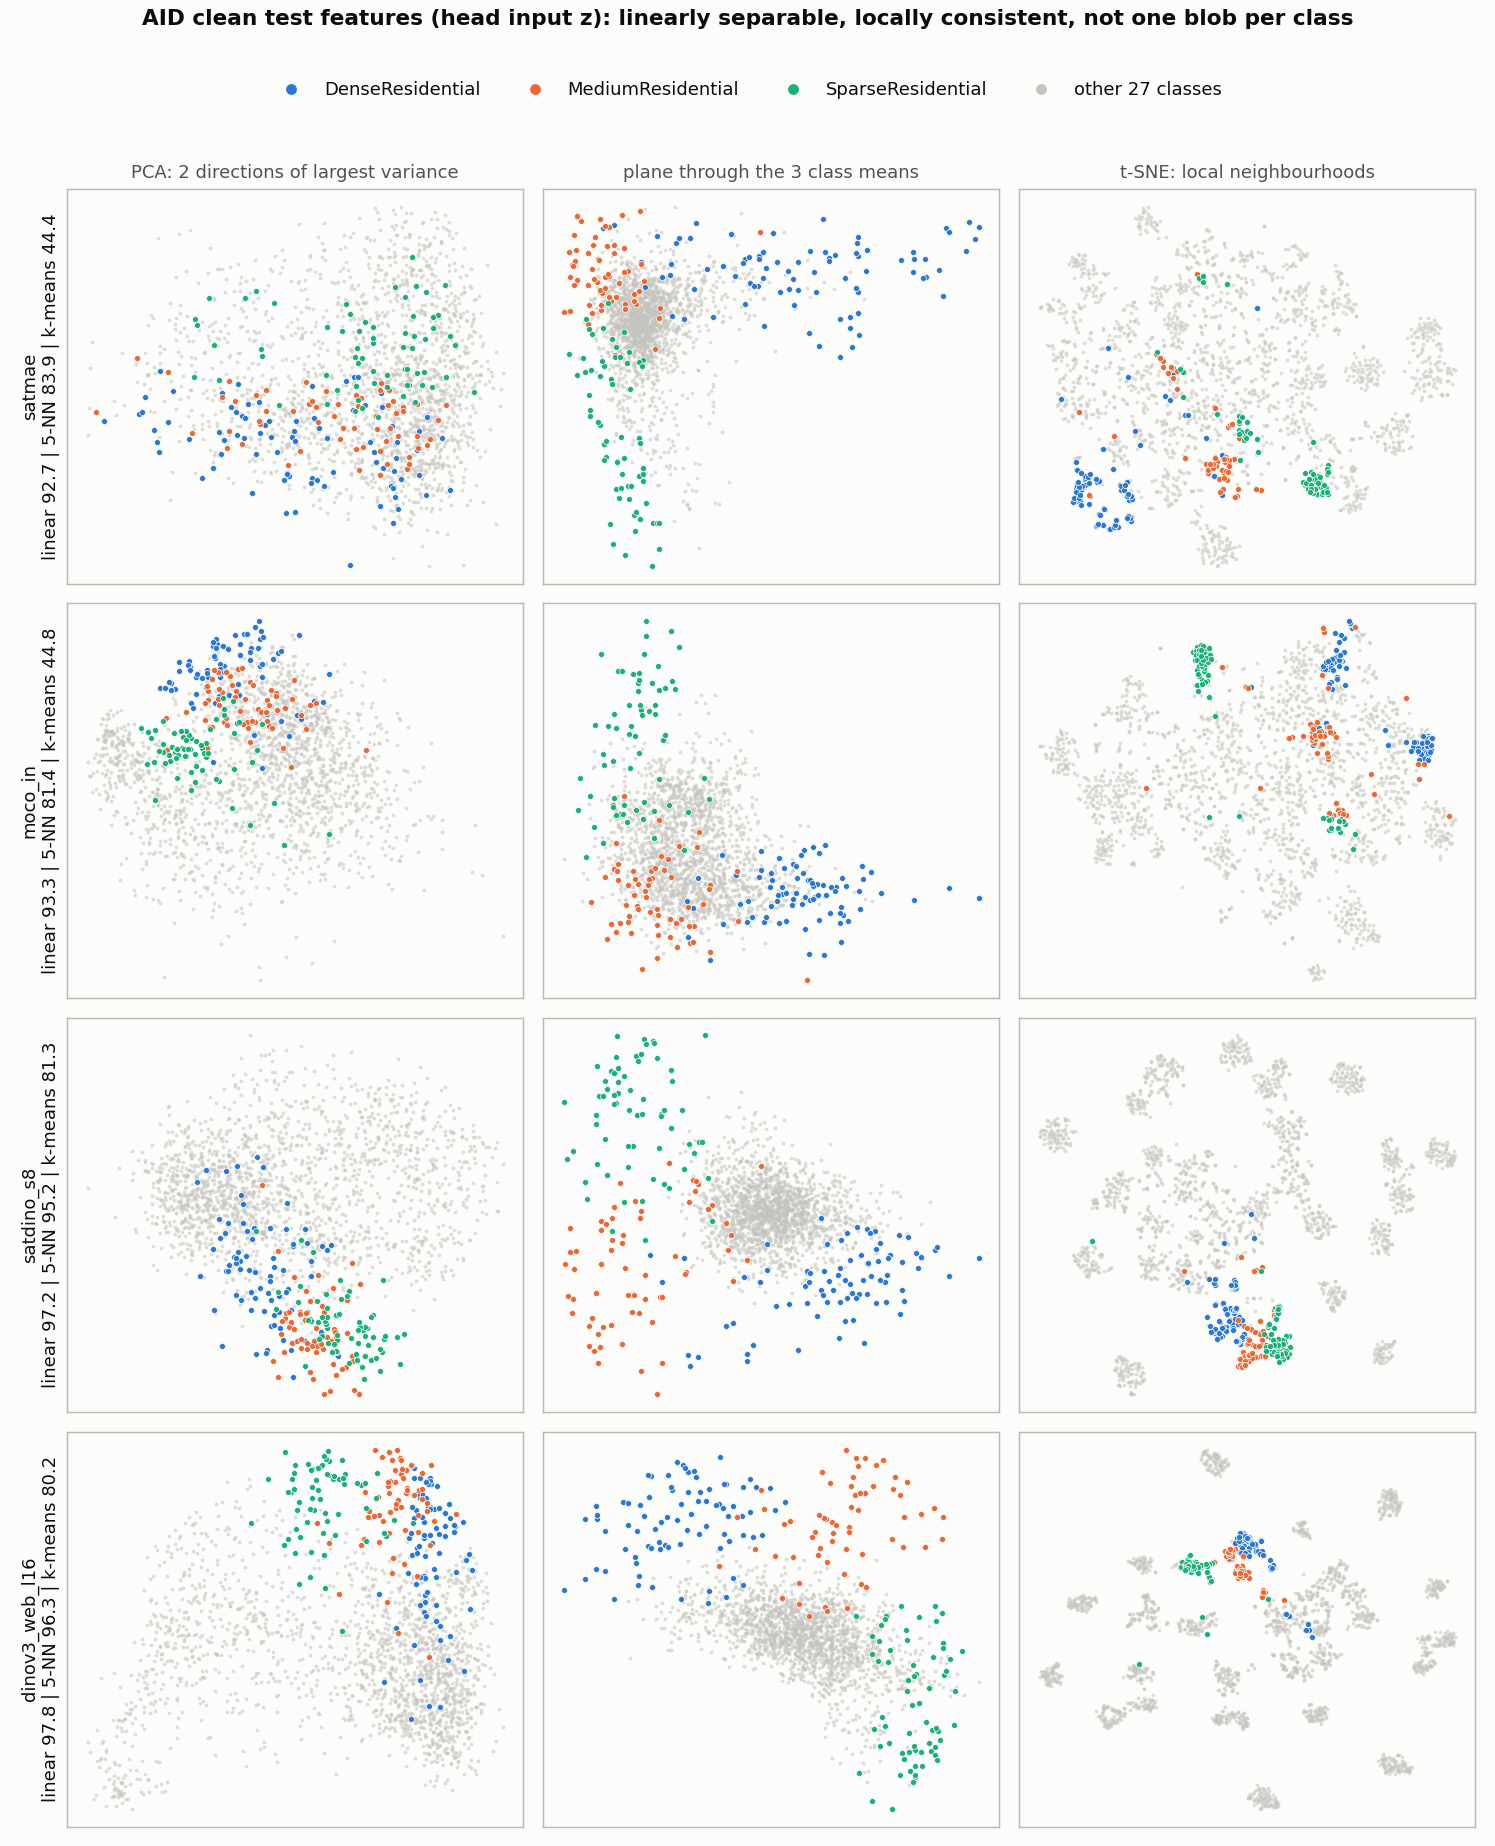
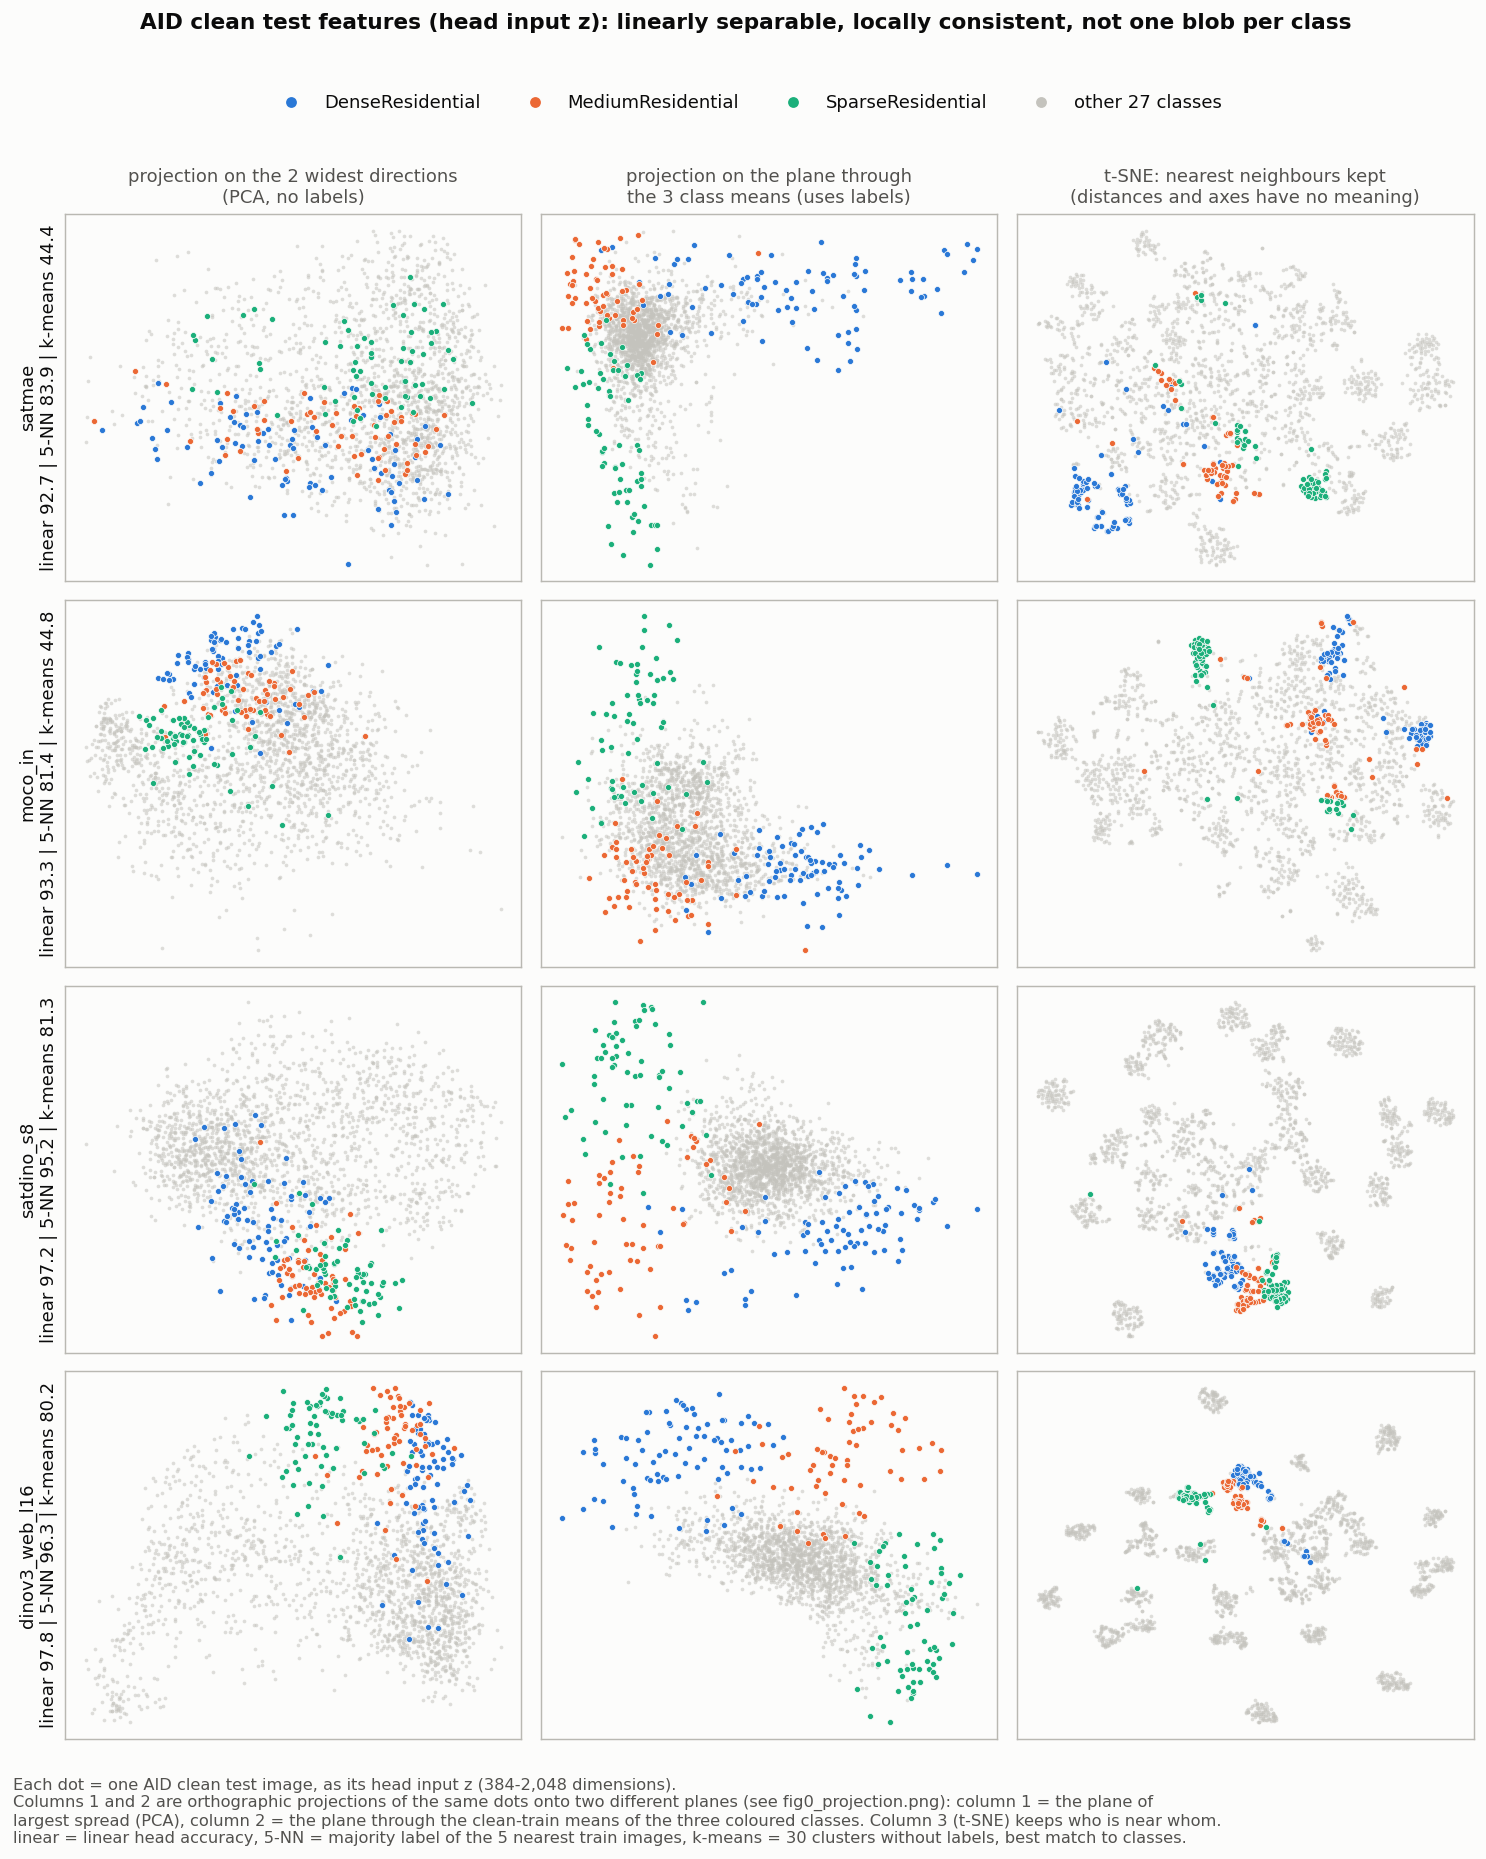
Feature figures: axis notes, clearer view names, projection schematic
fig0_projection.png shows that the PCA view and the class-mean view are orthographic
projections onto two different planes. fig1/fig2 and midterm fig11/fig12 get view titles
that name the plane, an axis note under the figure, and 'standardized' for the
head-input standardization. Korean captions for slides in the figure README.

diff --git a/repro/scripts/analysis/plot_feature_dist.py b/repro/scripts/analysis/plot_feature_dist.py
@@ -1,10 +1,12 @@
-"""Pictures of the head-input features (AID): separable but not clustered, and what a corruption / the alignment does.
+"""Pictures of the head-input features (AID): separable but not clustered, and what a corruption / head-input standardization does.
 
+  fig0_projection.png     : schematic on toy 3-D data: a 2-D view is an orthographic projection onto a plane; the PCA plane and the
+      plane through the class means are two choices of plane (the first two columns of fig1)
   fig1_clean_geometry.png : clean test stream of 4 backbones (lowest and highest k-means accuracy) in three 2-D views:
-      PCA            top-2 principal directions of the clean test stream (largest variance, label-free)
-      class plane    the plane through the clean-train means of the three highlighted classes (their best linear view)
-      t-SNE          exact t-SNE (perplexity 30) on the top-50 principal components (local neighbourhoods)
-  fig2_shift_align.png    : the same backbones, clean / corrupted / corrupted after head-input alignment (batches of 64),
+      PCA            orthographic projection onto the top-2 principal directions of the clean test stream (largest variance, label-free)
+      class plane    orthographic projection onto the plane through the clean-train means of the three highlighted classes
+      t-SNE          exact t-SNE (perplexity 30) on the top-50 principal components (local neighbourhoods; axes have no meaning)
+  fig2_shift_align.png    : the same backbones, clean / corrupted / corrupted after head-input standardization (batches of 64),
       x = direction of the common shift (mean corrupted - mean clean), y = top principal direction of the clean stream
       orthogonal to x; all three panels of a row share the axes.
 Highlighted: the three residential classes of AID (similar classes); every other class is grey (a scatter plot carries at
@@ -78,6 +80,57 @@ def scatter(ax, p, y, s=7):
         ax.scatter(p[y == k, 0], p[y == k, 1], s=s * 1.6, c=col, edgecolors=SURF, linewidths=0.4, rasterized=True)
 
 
+NOTE1 = ("Each dot = one AID clean test image, as its head input z (384-2,048 dimensions).\n"
+         "Columns 1 and 2 are orthographic projections of the same dots onto two different planes (see fig0_projection.png): column 1 = the plane of\n"
+         "largest spread (PCA), column 2 = the plane through the clean-train means of the three coloured classes. Column 3 (t-SNE) keeps who is near whom.\n"
+         "linear = linear head accuracy, 5-NN = majority label of the 5 nearest train images, k-means = 30 clusters without labels, best match to classes.")
+NOTE2 = ("Each dot = one image, as its head input z, projected orthographically onto two directions.\n"
+         "x = the common shift: the direction from the clean mean to the corrupted-stream mean. The value is the distance from the clean mean along it,\n"
+         "in source std units (0 = clean mean, dashed line). y = the direction of largest spread of the clean features, made perpendicular to x.\n"
+         "All three panels of a row use the same x and y. Standardization uses the mean / std of each test batch of 64 images.")
+
+
+def schematic():
+    """Toy 3-D data: two orthographic projections of the same points, onto the PCA plane and onto the plane through the class means."""
+    from mpl_toolkits.mplot3d.art3d import Poly3DCollection
+    rng = np.random.default_rng(0)
+    means = np.array([[-2.2, -1.2, 0.0], [2.2, -1.2, 0.0], [0.0, 2.0, 0.0]])
+    cols = [c for _, c in HL.values()]
+    pts = [mu + rng.normal(size=(60, 3)) * [0.5, 0.5, 2.4] for mu in means]
+    P = np.concatenate(pts); lab = np.repeat(np.arange(3), 60)
+    fig = plt.figure(figsize=(14.5, 5.4))
+    gs = fig.add_gridspec(1, 3, width_ratios=[1.5, 1, 1], wspace=0.12)
+    ax = fig.add_subplot(gs[0], projection="3d")
+    sq = np.array([[-4.2, -3.2, 0], [4.2, -3.2, 0], [4.2, 3.8, 0], [-4.2, 3.8, 0]])
+    ax.add_collection3d(Poly3DCollection([sq], facecolor="#e7e6e1", edgecolor=INK2, alpha=0.5, linewidths=0.8))
+    for k in range(3):
+        q = pts[k]
+        ax.scatter(q[:, 0], q[:, 1], q[:, 2], s=9, color=cols[k], depthshade=False)
+        for i in range(0, 60, 12):
+            ax.plot([q[i, 0]] * 2, [q[i, 1]] * 2, [q[i, 2], 0], color=INK2, lw=0.6, ls=(0, (2, 2)))
+            ax.scatter([q[i, 0]], [q[i, 1]], [0], s=12, color=cols[k], marker="x", depthshade=False)
+        ax.scatter(*means[k], s=110, color=cols[k], edgecolors=INK, marker="*", depthshade=False, zorder=10)
+    ax.set_title("feature space (shown in 3-D)\ngrey plane = plane through the 3 class means (stars)\ndotted = drop each point straight onto it",
+                 fontsize=10, color=INK)
+    ax.set_axis_off(); ax.set_box_aspect((1.2, 1, 1.3)); ax.view_init(elev=20, azim=-25)
+    ax.set_zlim(-6, 6)
+    Pc = P - P.mean(0)
+    V = np.linalg.svd(Pc, full_matrices=False)[2]
+    Q = np.linalg.qr((means[1:] - means[0]).T)[0]
+    for c, (title, pr) in enumerate((("projection on the PCA plane\n(2 directions of largest spread, no labels)", Pc @ V[:2].T),
+                                    ("projection on the plane through the 3 class means\n(uses labels)", (P - means.mean(0)) @ Q))):
+        a = fig.add_subplot(gs[c + 1])
+        for k in range(3):
+            a.scatter(pr[lab == k, 0], pr[lab == k, 1], s=14, color=cols[k], edgecolors=SURF, linewidths=0.4)
+        a.set_title(title, fontsize=10, color=INK); a.set_xticks([]); a.set_yticks([])
+    fig.suptitle("A 2-D view = orthographic projection onto a plane. PCA and the class-mean view differ only in which plane is used.\n"
+                 "Toy data: the widest spread (vertical) is shared by all classes, so the PCA plane mixes them; the class-mean plane separates them.",
+                 fontsize=11, fontweight="bold", y=1.08)
+    fig.savefig(OUT / "fig0_projection.png", dpi=150, bbox_inches="tight")
+    plt.close(fig)
+    print("saved", OUT / "fig0_projection.png")
+
+
 def legend(fig):
     hs = [plt.Line2D([], [], marker="o", ls="", ms=7, mfc=c, mec=SURF, label=n) for n, c in HL.values()]
     hs.append(plt.Line2D([], [], marker="o", ls="", ms=5, mfc=GREY, mec=GREY, label="other 27 classes"))
@@ -95,8 +148,12 @@ if __name__ == "__main__":
     ap = argparse.ArgumentParser()
     ap.add_argument("--corr", default="motion_blur")
     ap.add_argument("--sev", type=int, default=3)
+    ap.add_argument("--schematic_only", action="store_true")
     args = ap.parse_args()
     OUT.mkdir(parents=True, exist_ok=True)
+    schematic()
+    if args.schematic_only:
+        sys.exit(0)
     f1, A1 = plt.subplots(len(MODELS), 3, figsize=(11.5, 3.55 * len(MODELS)))
     f2, A2 = plt.subplots(len(MODELS), 3, figsize=(11.5, 3.3 * len(MODELS)))
     for r, m in enumerate(MODELS):
@@ -114,9 +171,9 @@ if __name__ == "__main__":
         V = torch.linalg.svd(xc, full_matrices=False)[2]
         cm = torch.stack([ztr[ytr == k].mean(0) for k in HL])
         Q = torch.linalg.qr((cm[1:] - cm[0]).T)[0]
-        views = [("PCA: 2 directions of largest variance", xc @ V[:2].T),
-                 ("plane through the 3 class means", (x - cm.mean(0)) @ Q),
-                 ("t-SNE: local neighbourhoods", tsne(xc @ V[:50].T))]
+        views = [("projection on the 2 widest directions\n(PCA, no labels)", xc @ V[:2].T),
+                 ("projection on the plane through\nthe 3 class means (uses labels)", (x - cm.mean(0)) @ Q),
+                 ("t-SNE: nearest neighbours kept\n(distances and axes have no meaning)", tsne(xc @ V[:50].T))]
         for c, (title, p) in enumerate(views):
             ax = A1[r, c]
             scatter(ax, p, y)
@@ -134,7 +191,7 @@ if __name__ == "__main__":
         u2 = torch.linalg.svd(res, full_matrices=False)[2][0]
         B = torch.stack([u1, u2]).T
         pts = [("clean", (x - x.mean(0)) @ B, y, acc(x, y)), (f"{args.corr} s{args.sev}", (xk - x.mean(0)) @ B, yk, acc(xk, yk)),
-               (f"{args.corr} s{args.sev}, aligned", (xa - x.mean(0)) @ B, yk, acc(xa, yk))]
+               (f"{args.corr} s{args.sev}, standardized", (xa - x.mean(0)) @ B, yk, acc(xa, yk))]
         allp = torch.cat([p for _, p, _, _ in pts])
         lim = [(allp[:, k].quantile(0.002).item(), allp[:, k].quantile(0.998).item()) for k in (0, 1)]
         for c, (title, p, yy, a) in enumerate(pts):
@@ -146,18 +203,24 @@ if __name__ == "__main__":
             ax.set_title(f"{title}: accuracy {a:.1f}%", color=INK, loc="left")
             ax.spines["top"].set_visible(False); ax.spines["right"].set_visible(False)
             if c == 0:
-                ax.set_ylabel(f"{m}\ntop clean direction", color=INK)
+                ax.set_ylabel(f"{m}\nwidest clean direction ⊥ x", color=INK)
             if r == len(MODELS) - 1:
-                ax.set_xlabel("direction of the common shift (source std units)")
+                ax.set_xlabel("x: along the common shift (source std units)")
         print(f"{m}: lin {acc(x, y):.1f} knn {knn:.1f} km {km:.1f} | {args.corr}_s{args.sev} {acc(xk, yk):.1f} -> aligned {acc(xa, yk):.1f} "
               f"| shift {d.norm().item():.1f}", flush=True)
     for f, name, title in ((f1, "fig1_clean_geometry.png", "AID clean test features (head input z): linearly separable, locally consistent, not one blob per class"),
                            (f2, f"fig2_shift_align_{args.corr}_s{args.sev}.png",
-                            "A corruption moves all features together; alignment moves the mean back\n(triangle = stream mean, dashed line = clean mean)")):
+                            "A corruption moves all features together; head-input standardization moves the mean back\n(triangle = stream mean, dashed line = clean mean)")):
         legend(f)
         two = "\n" in title
         f.suptitle(title, x=0.5, y=0.995, fontsize=12, fontweight="bold")
         f.legends[0].set_bbox_to_anchor((0.5, 0.955 if two else 0.965))
         f.tight_layout(rect=(0, 0, 1, 0.93 if two else 0.945))
-        f.savefig(OUT / name, dpi=130)
+        if f is f1:
+            f.text(0.01, 0.002, NOTE1, ha="left", va="bottom", fontsize=9, color=INK2)
+            f.subplots_adjust(bottom=0.06)
+        else:
+            f.text(0.01, 0.002, NOTE2, ha="left", va="bottom", fontsize=9, color=INK2)
+            f.subplots_adjust(bottom=0.085)
+        f.savefig(OUT / name, dpi=130, bbox_inches="tight")
         print("saved", OUT / name)

diff --git a/repro/scripts/analysis/plot_midterm_figs.py b/repro/scripts/analysis/plot_midterm_figs.py
@@ -446,8 +446,9 @@ def fig11(models=("satmae", "satdino_s8")):
         V = torch.linalg.svd(xc, full_matrices=False)[2]
         cm = torch.stack([ztr[ytr == k].mean(0) for k in HL3])
         Q = torch.linalg.qr((cm[1:] - cm[0]).T)[0]
-        views = [("directions of largest variance (PCA)", xc @ V[:2].T), ("plane through the 3 class means", (x - cm.mean(0)) @ Q),
-                 ("t-SNE: who is near whom", tsne(xc @ V[:50].T))]
+        views = [("projection on the 2 widest directions\n(PCA, no labels)", xc @ V[:2].T),
+                 ("projection on the plane through\nthe 3 class means (uses labels)", (x - cm.mean(0)) @ Q),
+                 ("t-SNE: nearest neighbours kept\n(axes have no meaning)", tsne(xc @ V[:50].T))]
         for c, (title, pts) in enumerate(views):
             a = axes[r, c + 1]
             _scatter3(a, pts, y)
@@ -458,7 +459,10 @@ def fig11(models=("satmae", "satdino_s8")):
                 a.set_title(title, fontsize=13, color=INK2, fontweight="normal")
         print(f"fig11 {m}: lin {lin:.1f} knn {knn:.1f} km {km:.1f}", flush=True)
     _legend3(fig, 1.0)
-    fig.tight_layout(rect=(0, 0, 1, 0.94))
+    fig.tight_layout(rect=(0, 0.05, 1, 0.94))
+    fig.text(0.01, 0.0, "Columns 2 and 3 are orthographic projections of the same features onto two planes: the plane of largest spread (PCA) and the plane "
+             "through the clean-train means of the three coloured classes\n(see docs/figs/2026-11-24_feature_dist/fig0_projection.png). "
+             "Column 4 (t-SNE) keeps who is near whom.", ha="left", va="bottom", fontsize=10.5, color=INK2)
     save(fig, "fig11_feature_geometry.png")
 
 
@@ -498,12 +502,16 @@ def fig12(models=("mae_in", "dinov3_web_l16"), corr="motion_blur", sev=3):
             ax.set_title(f"{title}\naccuracy {a:.1f}%", loc="left", fontsize=13)
             ax.set_yticks([])
             if c == 0:
-                ax.set_ylabel(m, fontsize=15, fontweight="bold")
+                ax.set_ylabel(f"{m}\ny: widest clean direction ⊥ x", fontsize=14)
             if r == len(models) - 1:
-                ax.set_xlabel("direction of the common shift (source std units)")
+                ax.set_xlabel("x: along the common shift (source std units)")
         print(f"fig12 {m}: clean {pts[0][3]:.1f} {corr}_s{sev} {pts[1][3]:.1f} aligned {pts[2][3]:.1f} shift {d.norm().item():.1f}", flush=True)
     _legend3(fig, 1.0)
     fig.tight_layout(rect=(0, 0, 1, 0.95))
+    fig.text(0.01, -0.005, "Each dot = one image, as its head input z, projected orthographically onto two directions. x = the common shift: the direction from "
+             "the clean mean to the corrupted-stream mean;\nthe value is the distance from the clean mean along it, in source std units (0 = clean mean, dashed line). "
+             "y = the direction of largest spread of the clean features, made perpendicular to x\n(no tick labels). All panels of a row use the same x and y.",
+             ha="left", va="top", fontsize=10.5, color=INK2)
     save(fig, "fig12_shift_alignment.png")
 
 

diff --git a/repro/docs/figs/2026-11-24_feature_dist/README.md b/repro/docs/figs/2026-11-24_feature_dist/README.md
@@ -8,6 +8,23 @@
 - 행 = 백본 4개. satmae와 moco_in은 k-means 정확도가 가장 낮은 쪽(44), satdino_s8과 dinov3_web_l16은 가장 높은 쪽(80–81)이다.
 - z는 384–2,048차원이라 2차원으로 내려서 그린다. 어느 2차원을 고르느냐에 따라 보이는 것이 달라서, 같은 점을 세 가지 방법으로 내렸다.
 
+## fig0_projection.png: 2차원 그림은 정사영이다 (2026-11-26 추가)
+
+장난감 3차원 데이터로 그린 설명 그림이다. 각 점에서 평면으로 수직선을 내려 떨어진 자리를 찍는 것이 정사영(orthographic projection)이고,
+fig1의 첫 두 열은 같은 점을 서로 다른 평면에 정사영한 것이다.
+- PCA 평면: 점들이 가장 넓게 퍼진 두 방향. 라벨을 안 쓴다. 넓게 퍼진 방향이 모든 클래스에 공통인 변화(장난감에서는 세로)이면 클래스가 겹쳐 보인다.
+- 세 클래스 평균을 지나는 평면: 별 세 개(클래스 평균)를 지나는 평면. 라벨을 쓴다. 세 클래스를 떼어 보기에 가장 좋은 평면이다.
+
+PPT에 넣을 한글 이름 (서버에 한글 글꼴이 없어 그림 안은 영어):
+
+| 그림 안 제목 | 한글 |
+|---|---|
+| projection on the 2 widest directions (PCA, no labels) | PCA 평면 정사영 (가장 넓게 퍼진 두 방향, 라벨 없음) |
+| projection on the plane through the 3 class means (uses labels) | 세 클래스 평균을 지나는 평면 정사영 (라벨 사용) |
+| t-SNE: nearest neighbours kept (distances and axes have no meaning) | t-SNE (가까운 이웃 관계만 유지, 축과 거리는 의미 없음) |
+| x: along the common shift (source std units) | x: 공통 이동 방향 (clean 평균 → 손상 stream 평균), 0 = clean 평균, 단위 = source 표준편차 |
+| widest clean direction ⊥ x | y: clean feature가 가장 넓게 퍼진 방향 (x와 직교) |
+
 ## fig1_clean_geometry.png: clean feature의 모양
 
 행 이름 아래 숫자 세 개는 같은 clean test feature를 세 가지 방법으로 분류한 정확도다.
@@ -37,7 +54,7 @@
 
 ## fig2_shift_align_motion_blur_s3.png: 손상이 feature를 어떻게 옮기고, head 입력 표준화가 무엇을 되돌리나
 
-열: clean / motion blur 3단계 / 같은 손상 stream을 head 입력 표준화(배치 64)한 뒤. 제목의 accuracy는 그 상태의 분류 정확도다.
+열: clean / motion blur 3단계 / 같은 손상 stream을 head 입력 표준화(배치 64)한 뒤. 그림 아래에 축 설명을 영어로 넣었다(2026-11-26). 제목의 accuracy는 그 상태의 분류 정확도다.
 
 축(한 행의 세 그림이 같은 축을 쓴다):
 - **x축 "direction of the common shift"**: 손상 stream의 평균 z에서 clean의 평균 z를 뺀 벡터 방향. 손상이 모든 이미지를 함께 민 방향이다.
